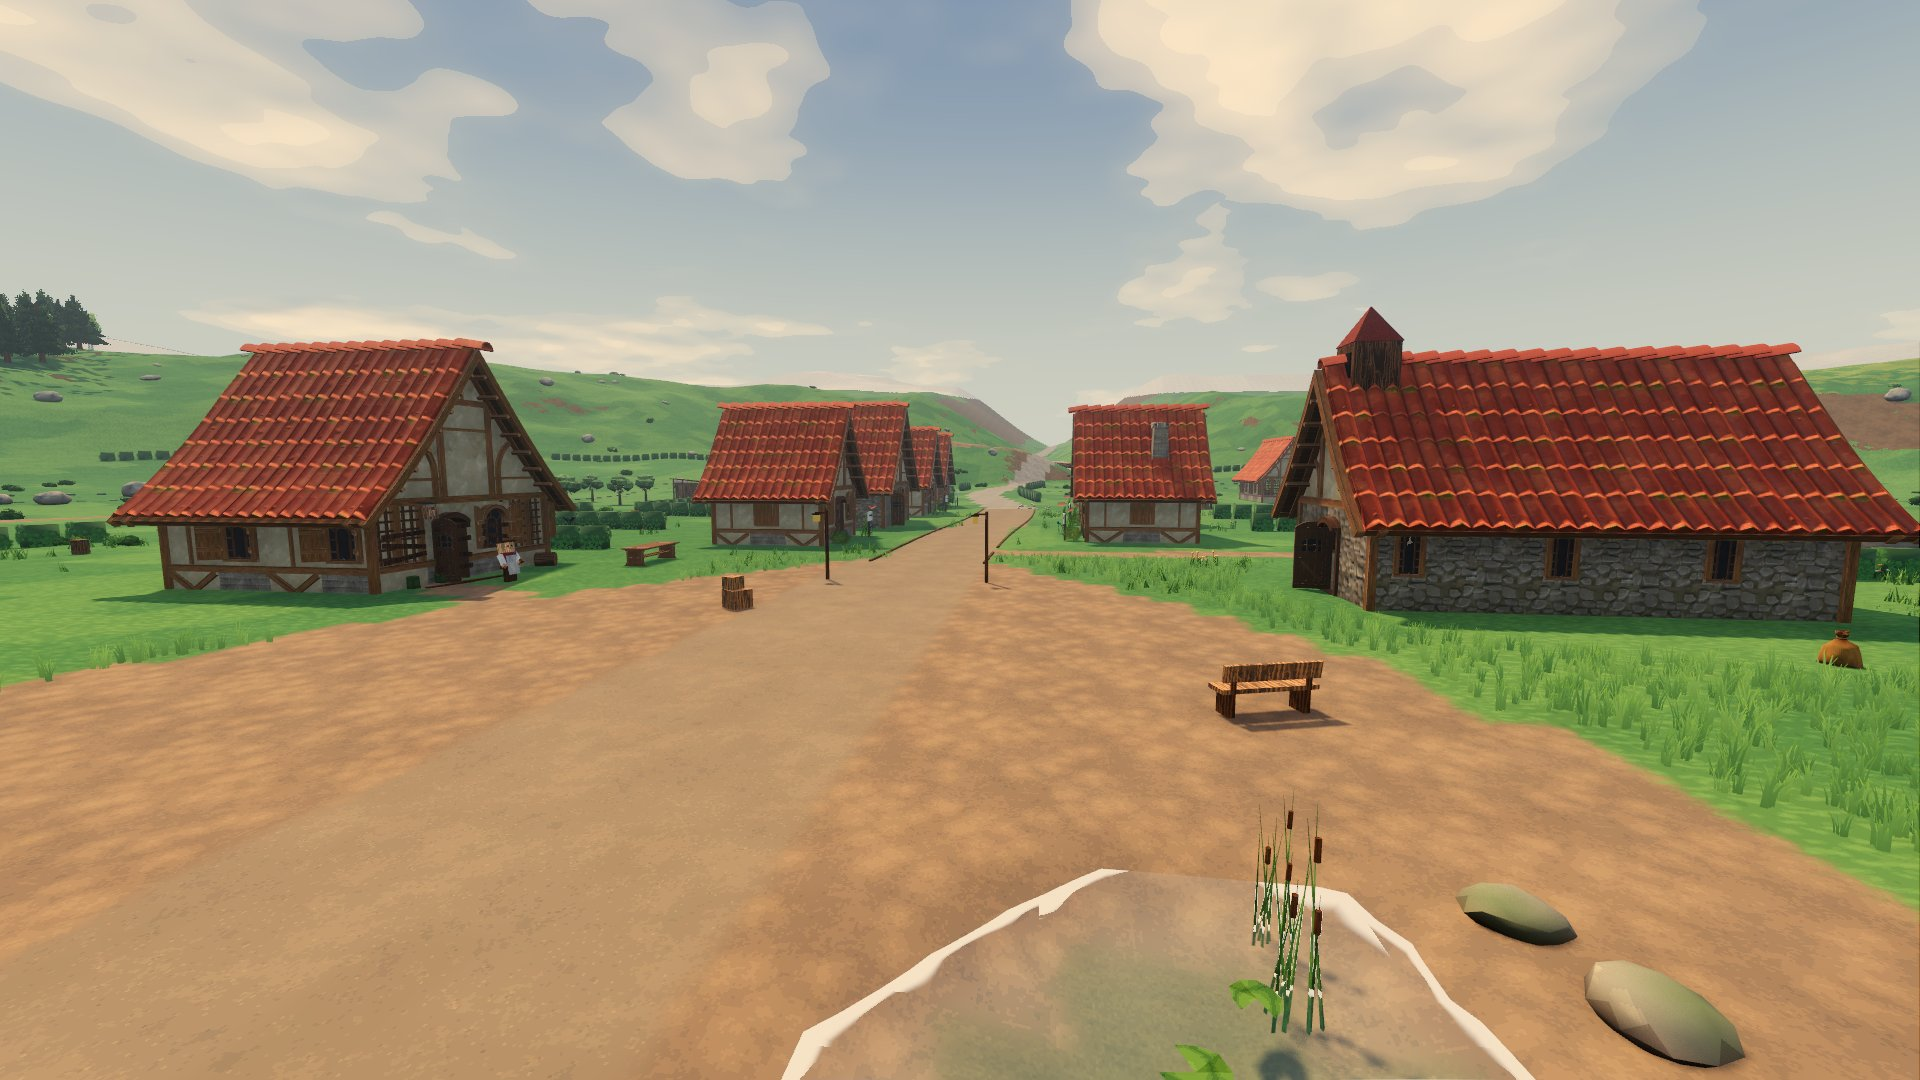
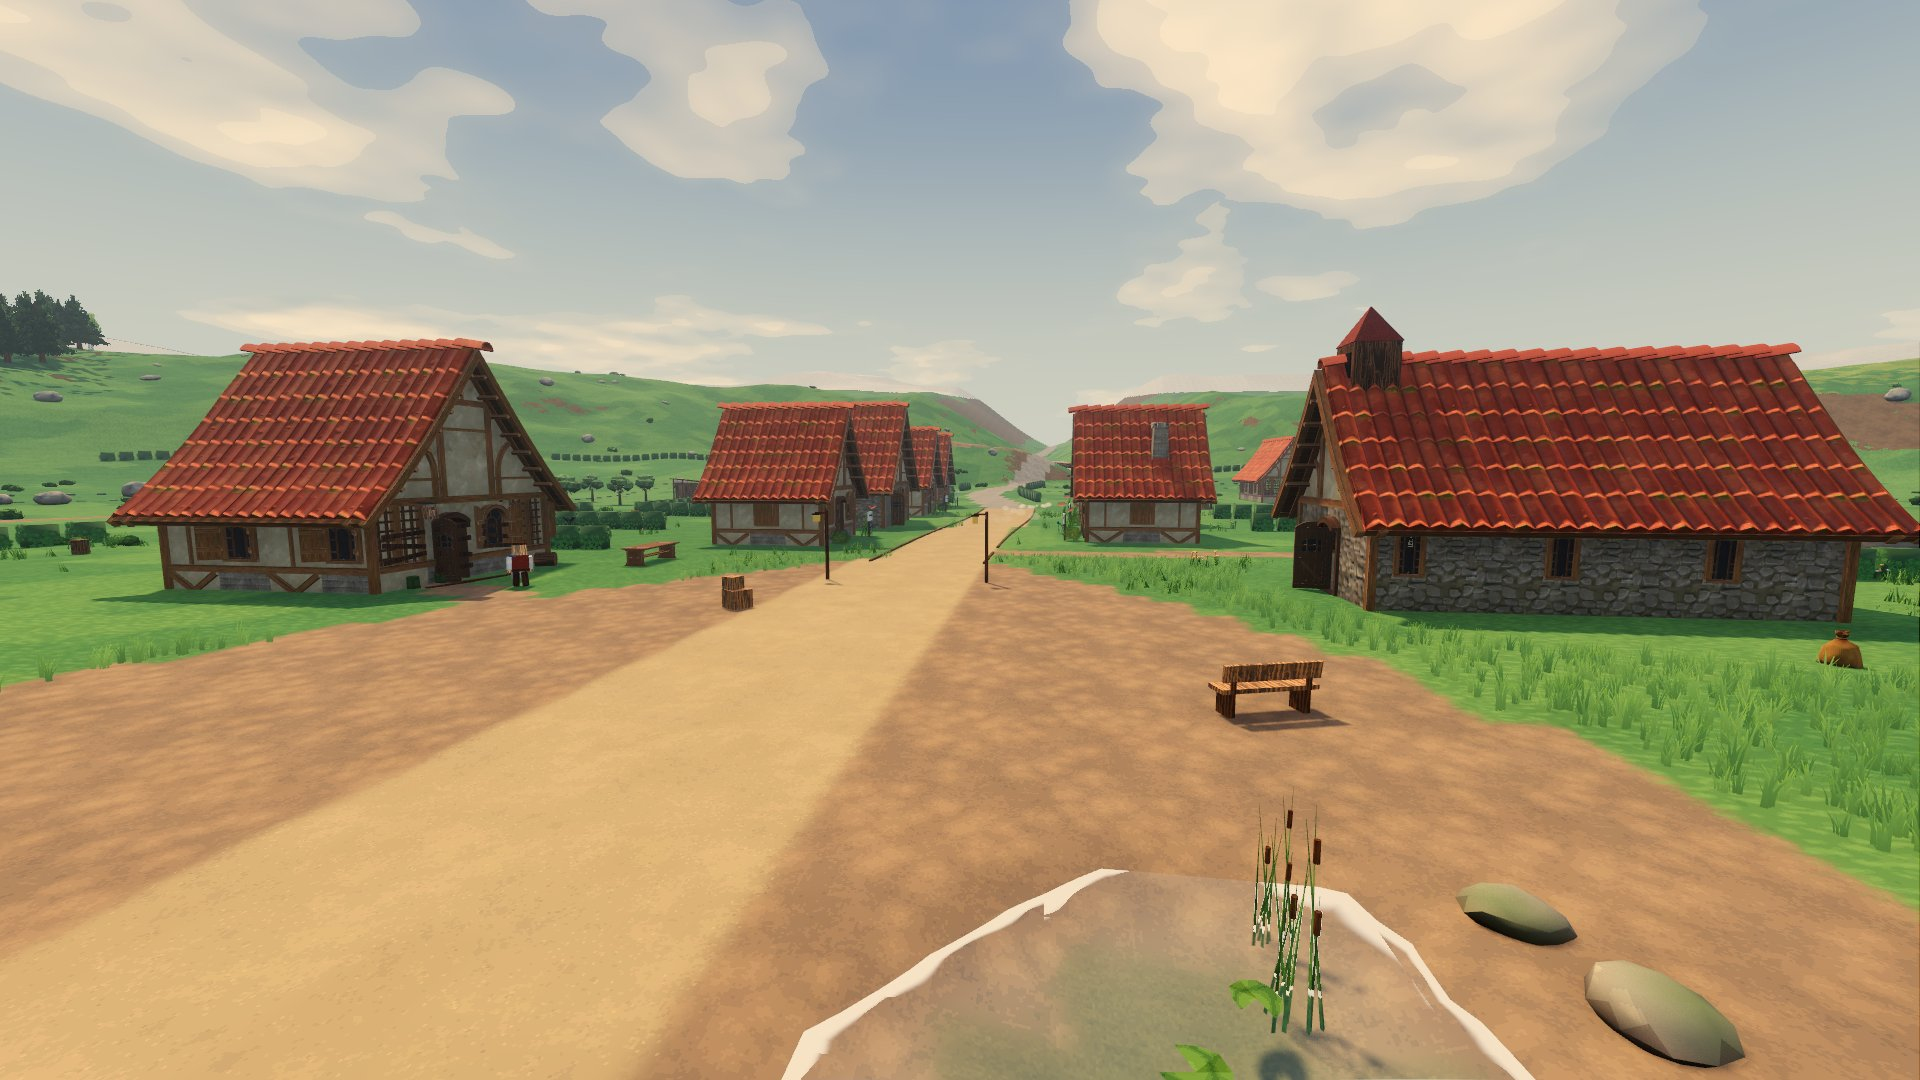
Roads everywhere: paler packed earth, soft dust
Packed lanes and tracks now stand out from plain dirt paths; the build-along kicks up fading
puffs instead of pebbles. Screenshots retaken.

Changed region(s): [[0.0, 0.4583, 0.5625, 1.0], [0.6562, 0.7639, 0.6875, 0.9167], [0.25, 0.4889, 0.2812, 0.55]]

diff --git a/plans/roads-everywhere.md b/plans/roads-everywhere.md
@@ -62,3 +62,7 @@ a game window.
   cobbled reads well. What they showed: packed earth is close in colour to the plain dirt paths, so
   the packed lanes, field tracks and haul road hardly look different; and the build-along's dust
   reads as grey pebbles strewn behind the front rather than dust.
+- **Fixed after the screenshots:** packed earth is paler and sandier (the terrain shader's
+  `packed_color` 0.62/0.54/0.43 -> 0.76/0.65/0.47), so packed lanes and tracks stand out from the
+  reddish dirt paths; the build-along's dust is soft see-through puffs that swell and fade (as the
+  chimney smoke), not little stones. Screenshots retaken.
